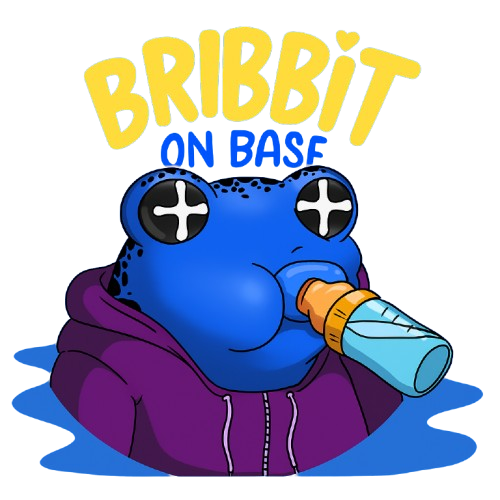
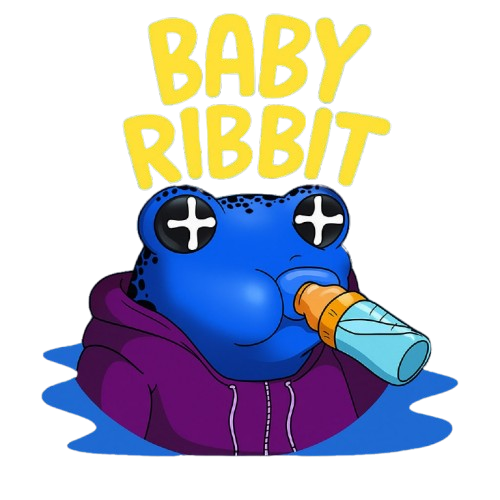
feat: update frog image in Renounce/Contract section
Replace old PNG with new transparent frog image and update alt text.

diff --git a/app/page.tsx b/app/page.tsx
@@ -11,12 +11,37 @@ export default function BribbitWebsite() {
   const [copied, setCopied] = useState(false)
 
   const copyToClipboard = async () => {
-    try {
-      await navigator.clipboard.writeText(contractAddress)
+    const ok = await copyText(contractAddress)
+    if (ok) {
       setCopied(true)
-      window.setTimeout(() => setCopied(false), 1500)
+      if ("vibrate" in navigator) navigator.vibrate?.(30)
+      window.setTimeout(() => setCopied(false), 1400)
+    }
+  }
+
+  async function copyText(text: string) {
+    try {
+      if (window.isSecureContext && navigator.clipboard?.writeText) {
+        await navigator.clipboard.writeText(text)
+        return true
+      }
     } catch {
-      // silent fail
+      // fallback below
+    }
+    try {
+      const ta = document.createElement("textarea")
+      ta.value = text
+      ta.setAttribute("readonly", "")
+      ta.style.position = "fixed"
+      ta.style.opacity = "0"
+      ta.style.left = "-9999px"
+      document.body.appendChild(ta)
+      ta.select()
+      const ok = document.execCommand("copy")
+      document.body.removeChild(ta)
+      return ok
+    } catch {
+      return false
     }
   }
 
@@ -55,6 +80,7 @@ export default function BribbitWebsite() {
         {/* CA pill - moved into flow so it doesn't overlap header on mobile */}
         <Reveal className="mx-auto w-full max-w-[46rem]" y={-8}>
           <button
+            type="button"
             onClick={copyToClipboard}
             onKeyDown={(e) => {
               if (e.key === "Enter" || e.key === " ") {
@@ -62,9 +88,9 @@ export default function BribbitWebsite() {
                 copyToClipboard()
               }
             }}
-            aria-label="Copy contract address"
-            title="Tap to copy"
-            className="group w-full flex items-center gap-3 sm:gap-4 bg-white border-2 border-black rounded-3xl px-5 py-4 sm:px-6 sm:py-5 md:px-8 md:py-6 shadow-[0_6px_0_0_rgba(0,0,0,0.35)] active:translate-y-[1px]"
+            aria-label="Tap to copy contract address"
+            className={`group w-full max-w-[46rem] mx-auto flex items-center gap-3 sm:gap-4 bg-white border-2 border-black rounded-3xl px-5 py-4 sm:px-6 sm:py-5 md:px-8 md:py-6 shadow-[0_6px_0_0_rgba(0,0,0,0.35)] active:translate-y-[1px] transition
+      ${copied ? "ring-2 ring-green-500 ring-offset-2 ring-offset-[#3BA3FF]" : ""}`}
           >
             <span className="font-subheading text-lg sm:text-xl md:text-2xl text-black">CA :</span>
             <code className="flex-1 min-w-0 text-sm sm:text-base md:text-xl font-mono leading-snug break-all tracking-wide text-black select-none">
@@ -79,10 +105,10 @@ export default function BribbitWebsite() {
         <div className="max-w-7xl mx-auto grid md:grid-cols-2 gap-8 items-center mt-6">
           {/* Wordmark */}
           <Reveal className="text-center md:text-left">
-            <div className="relative mx-auto md:mx-0 w-[260px] h-[96px] sm:w-[320px] sm:h-[120px] md:w-[560px] md:h-[220px]">
+            <div className="relative mx-auto md:mx-0 w-[260px] h-[160px] sm:w-[320px] sm:h-[200px] md:w-[420px] md:h-[260px]">
               <Image
                 src="/images/bribbit-wordmark.png"
-                alt="BRIBBIT on BASE wordmark"
+                alt="BABY RIBBIT wordmark"
                 fill
                 className="object-contain drop-shadow-[0_6px_0_rgba(0,0,0,0.35)]"
                 priority
@@ -150,7 +176,7 @@ export default function BribbitWebsite() {
             <Reveal className="flex justify-center md:justify-start">
               <Image
                 src="/images/bribbit-bottle.png"
-                alt="Bribbit on Base drinking from a bottle illustration"
+                alt="Baby Ribbit drinking from a bottle logo"
                 width={480}
                 height={480}
                 className="w-56 h-56 sm:w-64 sm:h-64 md:w-[28rem] md:h-[28rem] object-contain drop-shadow-[0_8px_0_rgba(0,0,0,0.35)]"
